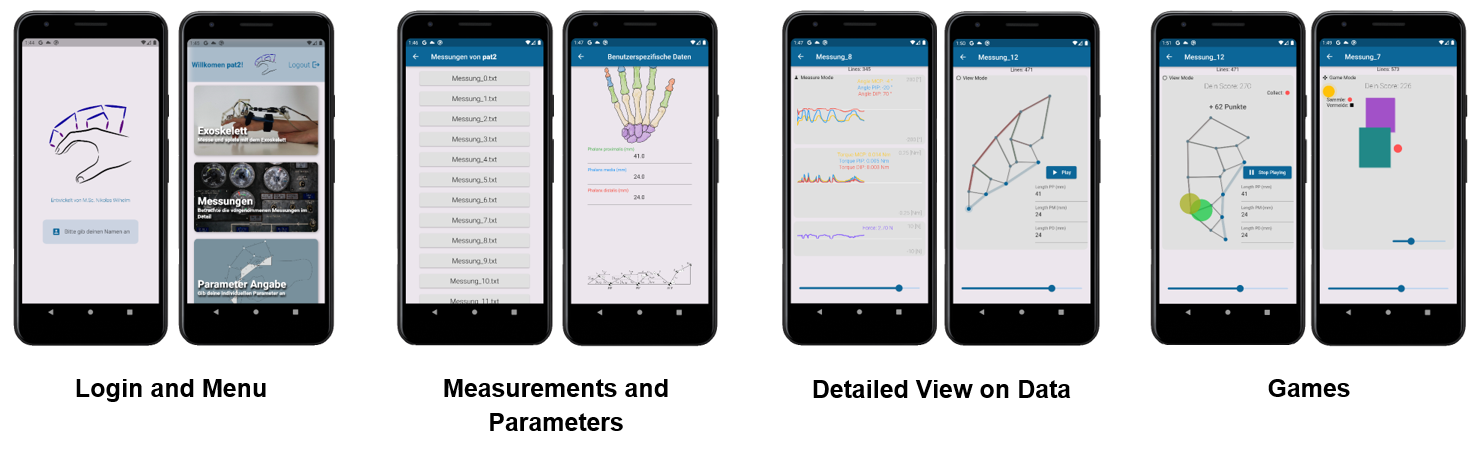
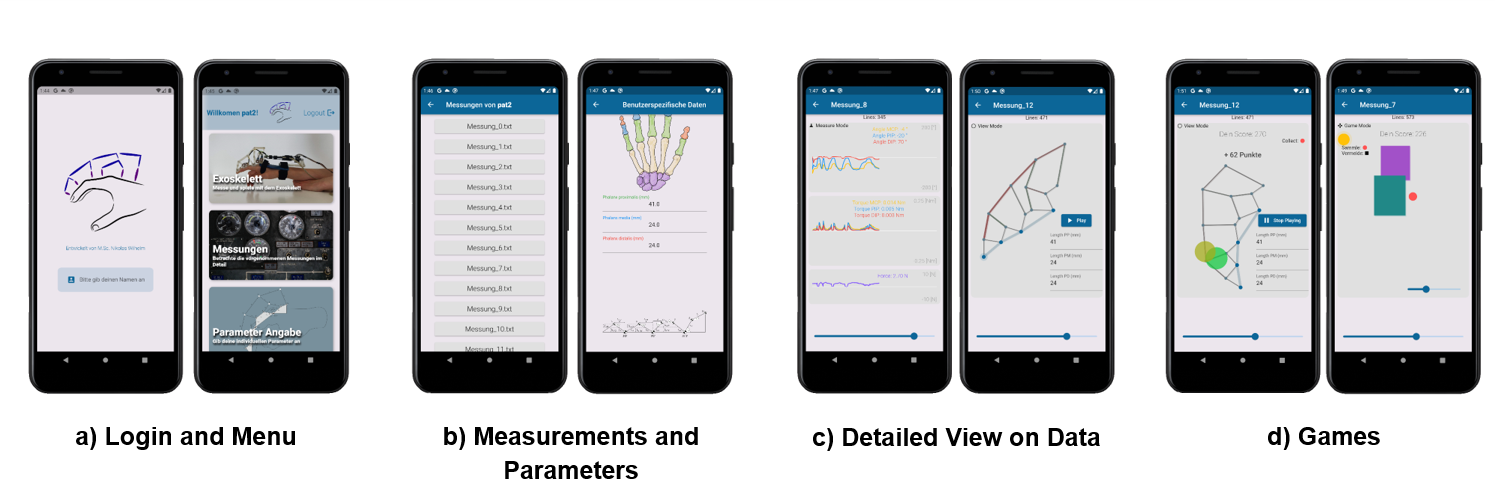
updated readme

diff --git a/README.md b/README.md
@@ -1,8 +1,8 @@
 # Development of an Exoskeleton Platform of the Finger for Objective Patient Monitoring
->This repository represents the source code for a novel mechatronic exoskeleton application for finger rehabilitation.
+>This repository represents the source code for a novel mechatronic exoskeleton application for finger rehabilitation and patient monitoring.
 
 
- <img src="assets\images\app_structure.png" alt="Drawing" style="width: 800px;">
+ <img src="assets\images\app_structure.png" alt="Drawing" style="width: 1600;">
 
 
 ## Setup
